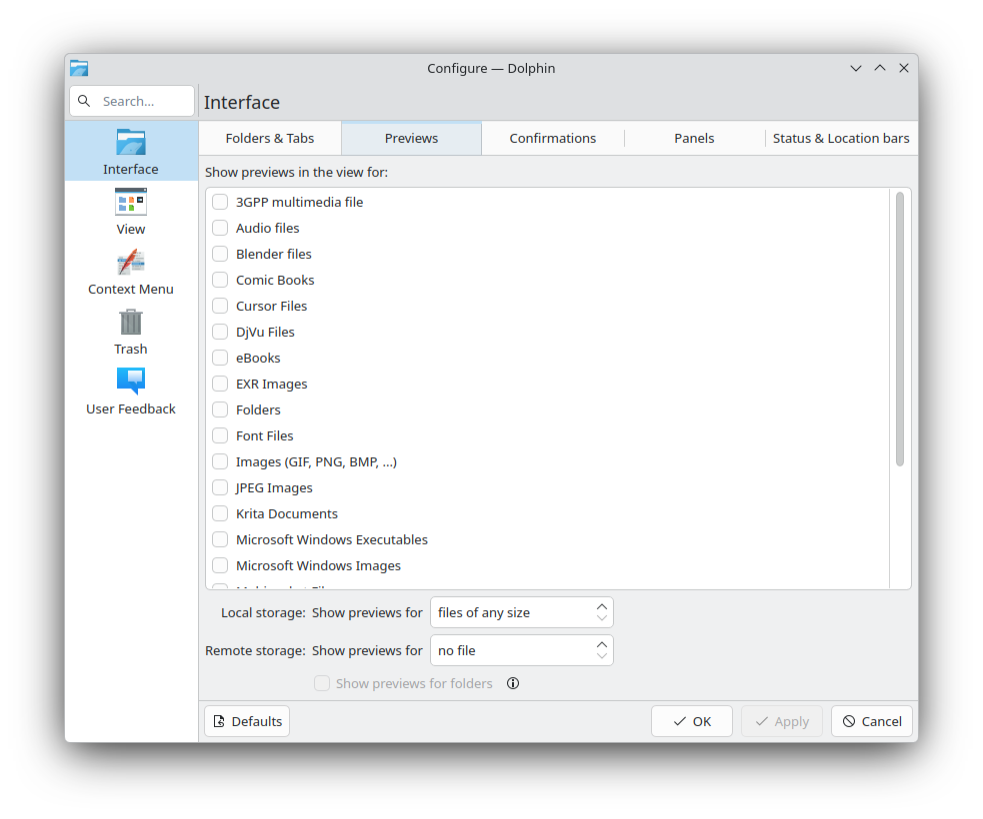
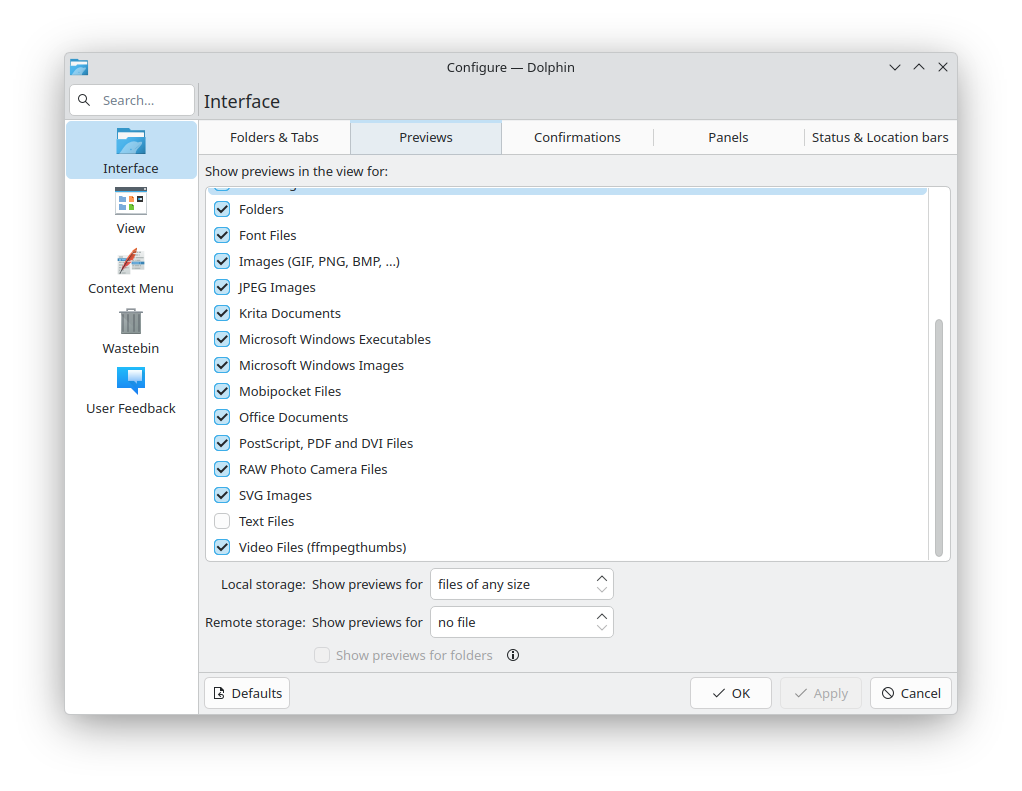
docs: update FAQ and IMAGES to reflect new thumbnail disabled default

Changed region(s): [[0.0305, 0.0607, 0.9461, 0.9406], [0.5188, 0.1517, 0.6104, 0.182], [0.6714, 0.1517, 0.7325, 0.182]]

diff --git a/content/FAQ.md b/content/FAQ.md
@@ -61,7 +61,7 @@ permalink: /faq
   - [How do I enable kernel modules?](#enable-kernel-modules)
   - [How do I install an app as a PWA?](#pwa)
   - [How do I configure GRUB?](#configure-grub)
-  - [How do I disable thumbnailing?](#thumbnailing)
+  - [How do I enable thumbnailing?](#thumbnailing)
 
 - [Troubleshooting](#troubleshooting)
   - [Something broke! How do I rollback?](#rollback)
@@ -490,29 +490,32 @@ As of Fedora 41, GRUB configuration is now [static](https://discussion.fedorapro
 
 Please note, the instructions provided by the Arch Wiki article for manually adding a menu entry for Windows are incorrect. The Wiki states you need to provide a `hints_string` as a parameter for the `search` function, however this is not required and will cause GRUB to error. You only need to provide the UUID for the partition that holds the Windows boot EFI file.
 
-### [How do I disable thumbnailing?](#thumbnailing)
+### [How do I enable thumbnailing?](#thumbnailing)
 {: #thumbnailing}
 
-Given that the sandboxing provided for thumbnailing by desktop environments is at best <a href="/images#security-recommendation">weak</a>, it's recommended that users disable thumbnailing altogether to protect against <a href="https://scarybeastsecurity.blogspot.com/2016/11/0day-exploit-compromising-linux-desktop.html">attacks via thumbnailers</a>. Disabling thumbnailing is currently not supported by COSMIC Files but it has been [proposed](https://github.com/pop-os/cosmic-files/issues/1216). For other systems, follow the instructions below.
+{% include alert.html type='caution' content='Enabling thumbnailing is a security degradation. Thumbnailers currently have <a href="/images#security-recommendation">no sandboxing</a> on secureblue.' %}
+
+secureblue disables thumbnailing by default (except on COSMIC) to protect against <a href="https://scarybeastsecurity.blogspot.com/2016/11/0day-exploit-compromising-linux-desktop.html">attacks via thumbnailers</a>. Disabling thumbnailing is currently not supported by COSMIC Files but it has been [proposed](https://github.com/pop-os/cosmic-files/issues/1216). To enable thumbnailing on other systems, follow the instructions below.
 
 #### GNOME
 
-Within GNOME Files preferences, set "Show Thumbnails" to "Never":
+Within GNOME Files preferences, set "Show Thumbnails" to "On This Device Only" or "All Folders":
 
 <img alt="GNOME thumbnailing configuration" src="/assets/gnome_thumbnail.png" />
 
 #### KDE
 
-Within Dolphin settings, uncheck all items under the Previews tab in the Interface section:
+Within Dolphin settings, check items under the Previews tab in the Interface section according to your preferences:
 
 <img alt="KDE thumbnailing configuration" src="/assets/kde_thumbnail.png" />
 
 #### Sway
 
-Disable tumblerd using the following command:
+Enable tumblerd using the following command:
 
 ```
-systemctl mask --user --now tumblerd.service
+mkdir -p ~/.config/systemd/user
+cp /usr/lib/systemd/user/tumblerd.service ~/.config/systemd/user
 ```
 
 <hr>

diff --git a/content/IMAGES.md b/content/IMAGES.md
@@ -30,10 +30,12 @@ This section is a relative recommendation between the desktop environments avail
 
 | DE/WM      | Secures privileged Wayland protocols? | Thumbnailer sandboxing? | Stability    | Recommendation                  |
 |------------|---------------------------------------|-------------------------|--------------|---------------------------------|
-| GNOME      | Yes                                   | Weak                    | Stable       | Recommended                     |
+| GNOME      | Yes                                   | None*                   | Stable       | Recommended                     |
 | KDE Plasma | Yes                                   | None                    | Stable       | Recommended                     |
-| Sway       | Yes                                   | Weak                    | Stable       | Recommended for tiling WM users |
+| Sway       | Yes                                   | None*                   | Stable       | Recommended for tiling WM users |
 | COSMIC     | Yes                                   | None                    | Beta         | Not currently recommended       |
+
+* The file managers in GNOME and Sway do support thumbnailer sandboxing via <a href="https://gitlab.gnome.org/GNOME/glycin">Glycin</a> using bubblewrap, but this currently does not work on secureblue since the respective file managers have no access to <a href="https://secureblue.dev/articles/userns">user namespaces</a>. 
 
 ## [Desktop](#desktop)
 {: #desktop}
